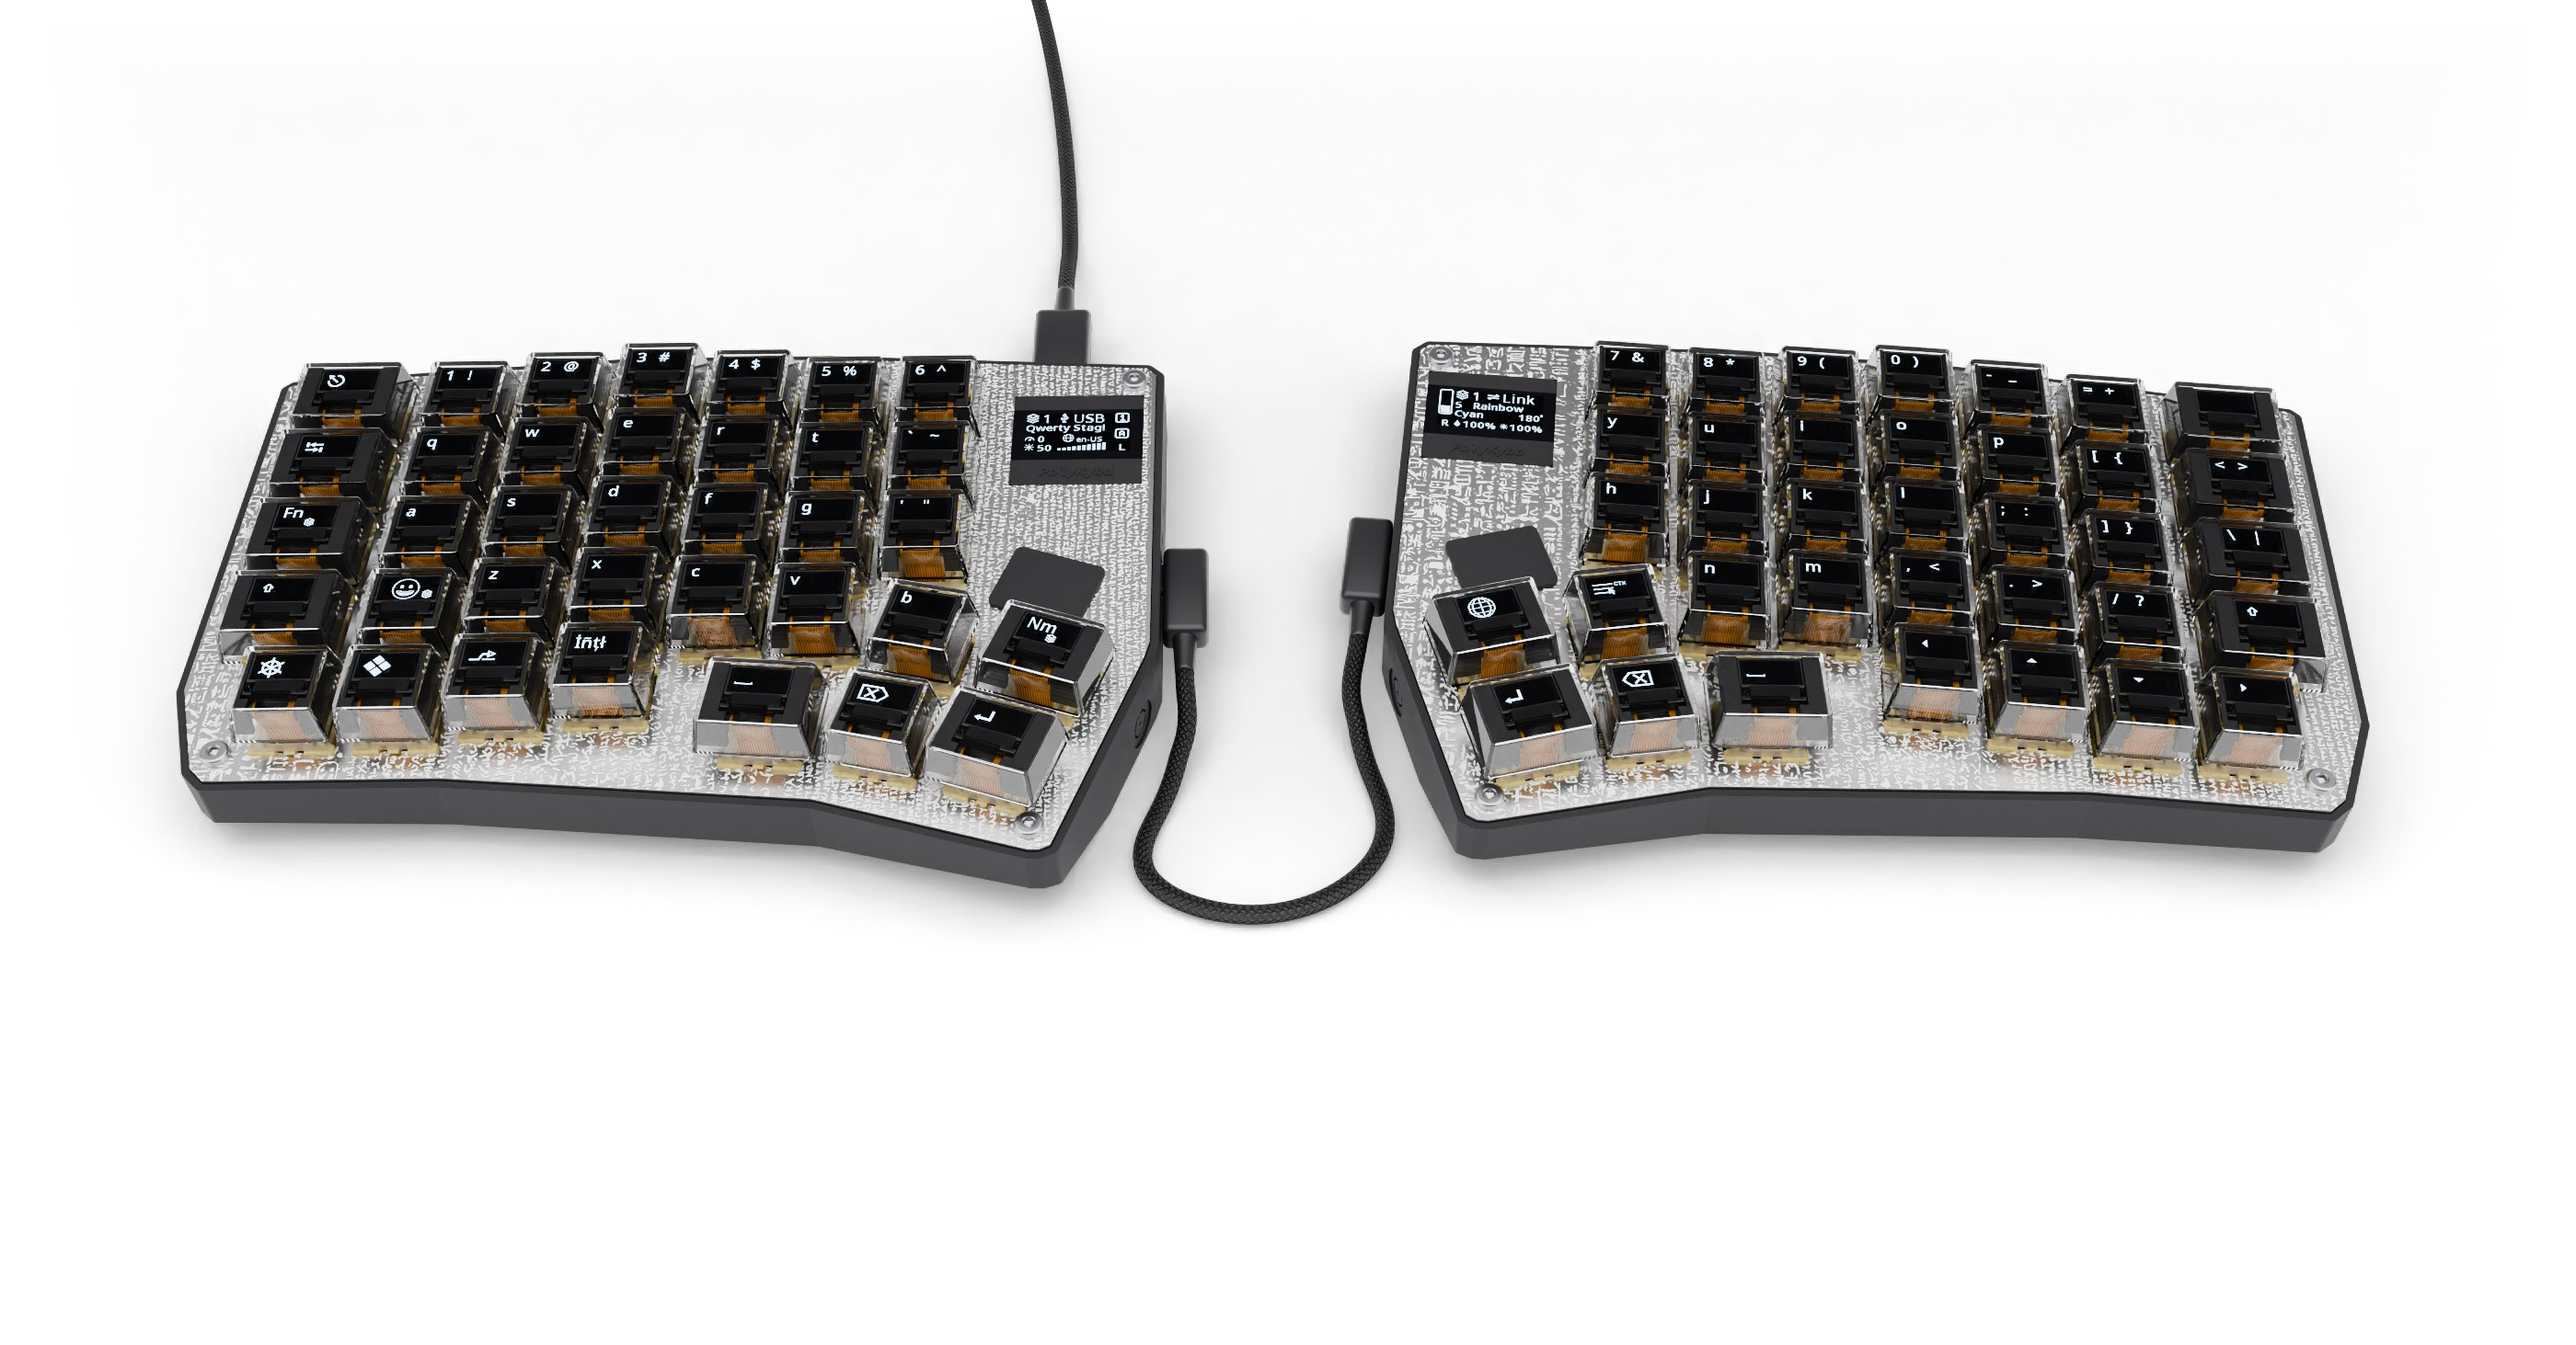
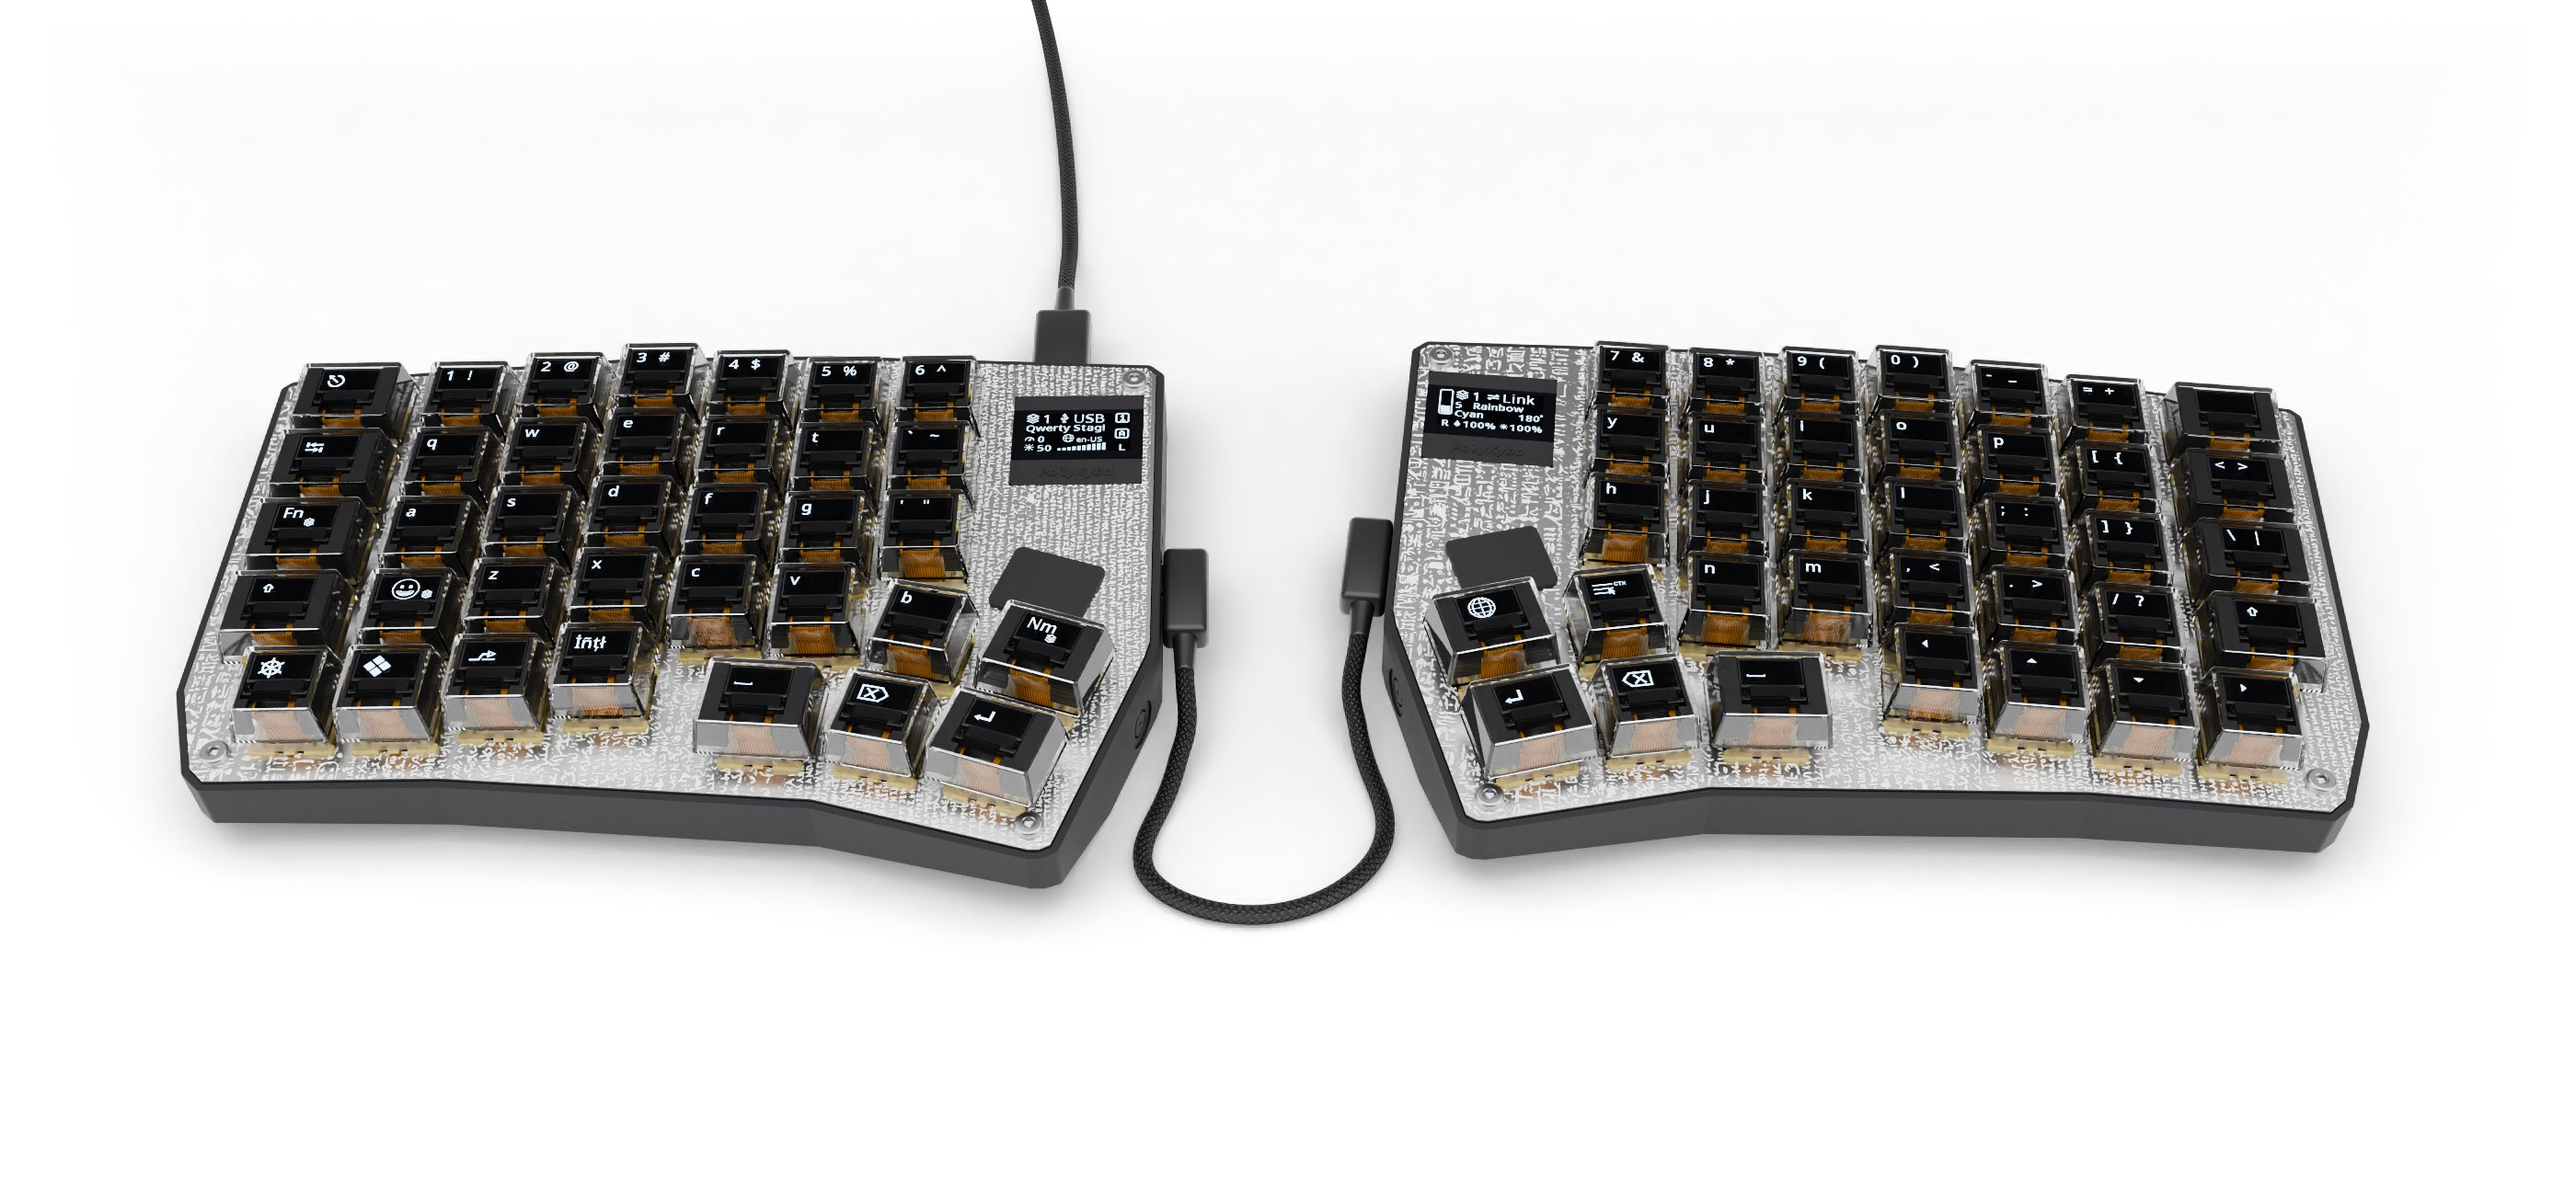
README: crop the assembled render's empty bottom; fix 'pleas'
Cropping 158 px off the bottom (2800x1305) puts the keyboard at the
photo's height in the frame.

Claude-Session: https://claude.ai/code/session_01SAoQTYVXLtW1BwAxPWRYQc

Changed region(s): [[0.0621, 0.2146, 0.9321, 0.7969]]

diff --git a/README.md b/README.md
@@ -297,7 +297,7 @@ On the backside, you can check if both pins have been inserted properly:
 15. Insert the 4 hex screws and tighten them carefully. ![One halve assembled](images/assembled.jpg) Now repeat with the other side ;)
 16. Connect the two halves with the short USB-C to USB-C cable.
 17. Finally connect the left side with the USB-C cable connecting to the host system and you are done!
-18. Congratulations! You made it! ![PolyKybd Split72](images/PolyKybdSplit72_assembled_render.jpg) In case you experience any issues, pleas let me know or make a PR on the build guide!
+18. Congratulations! You made it! ![PolyKybd Split72](images/PolyKybdSplit72_assembled_render.jpg) In case you experience any issues, please let me know or make a PR on the build guide!
 
 The fun just starts now! You will recognize that there are a lot of ways to play around with this keyboard.
 
